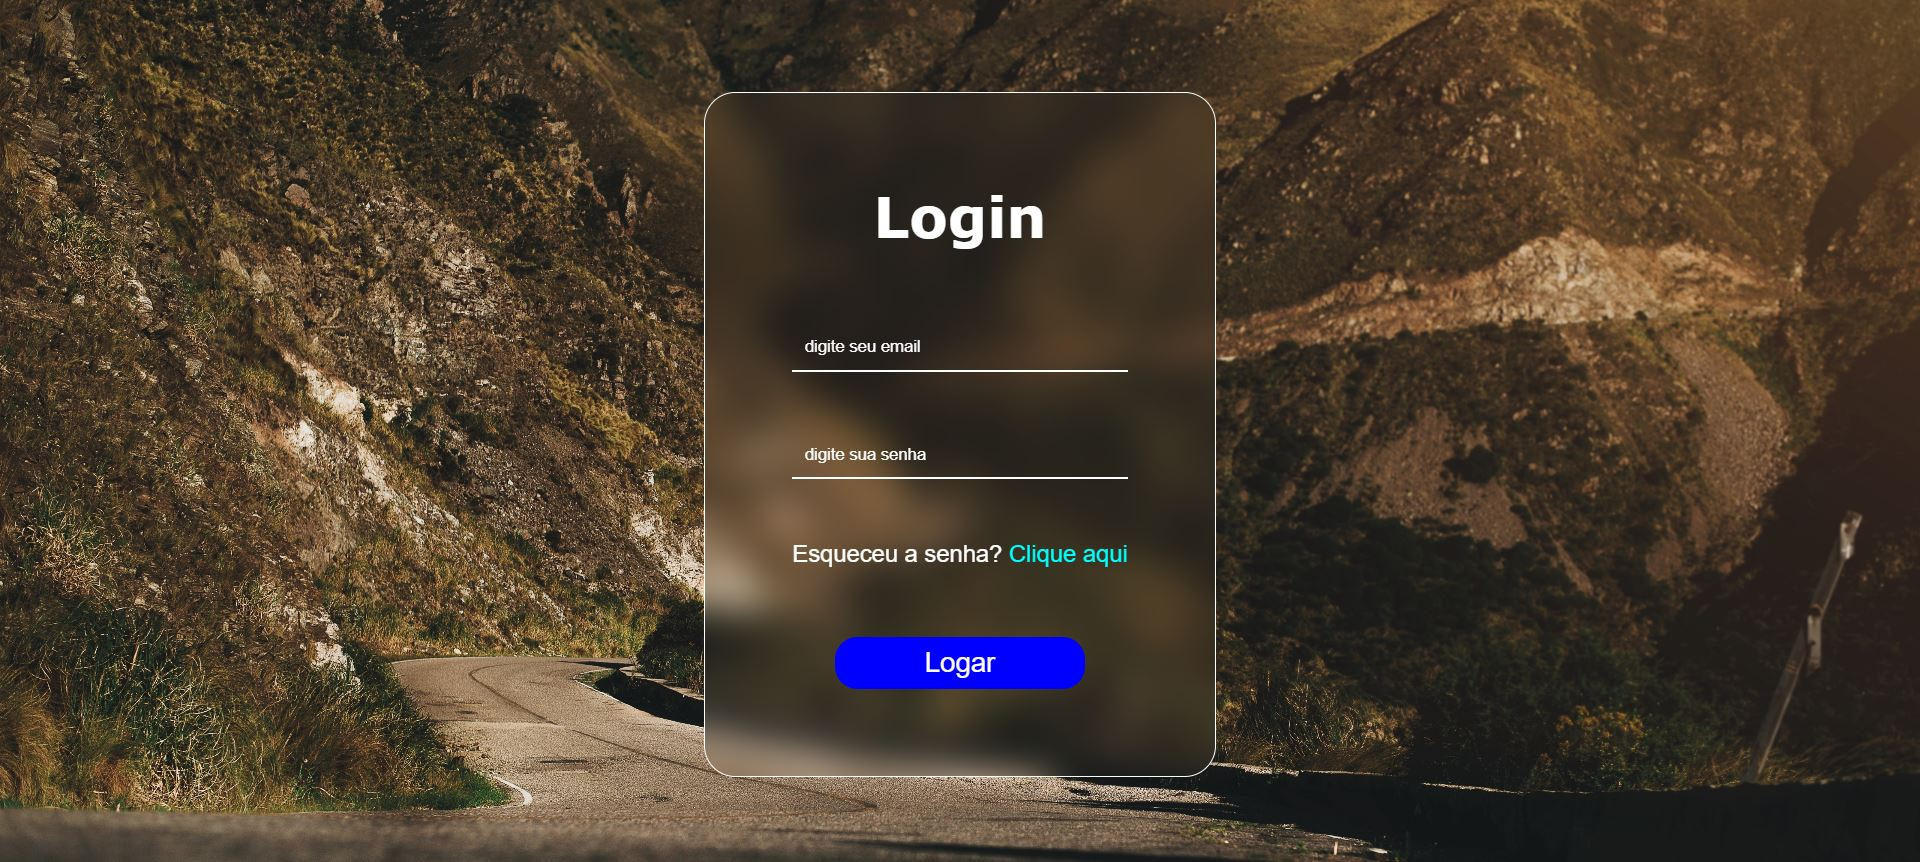
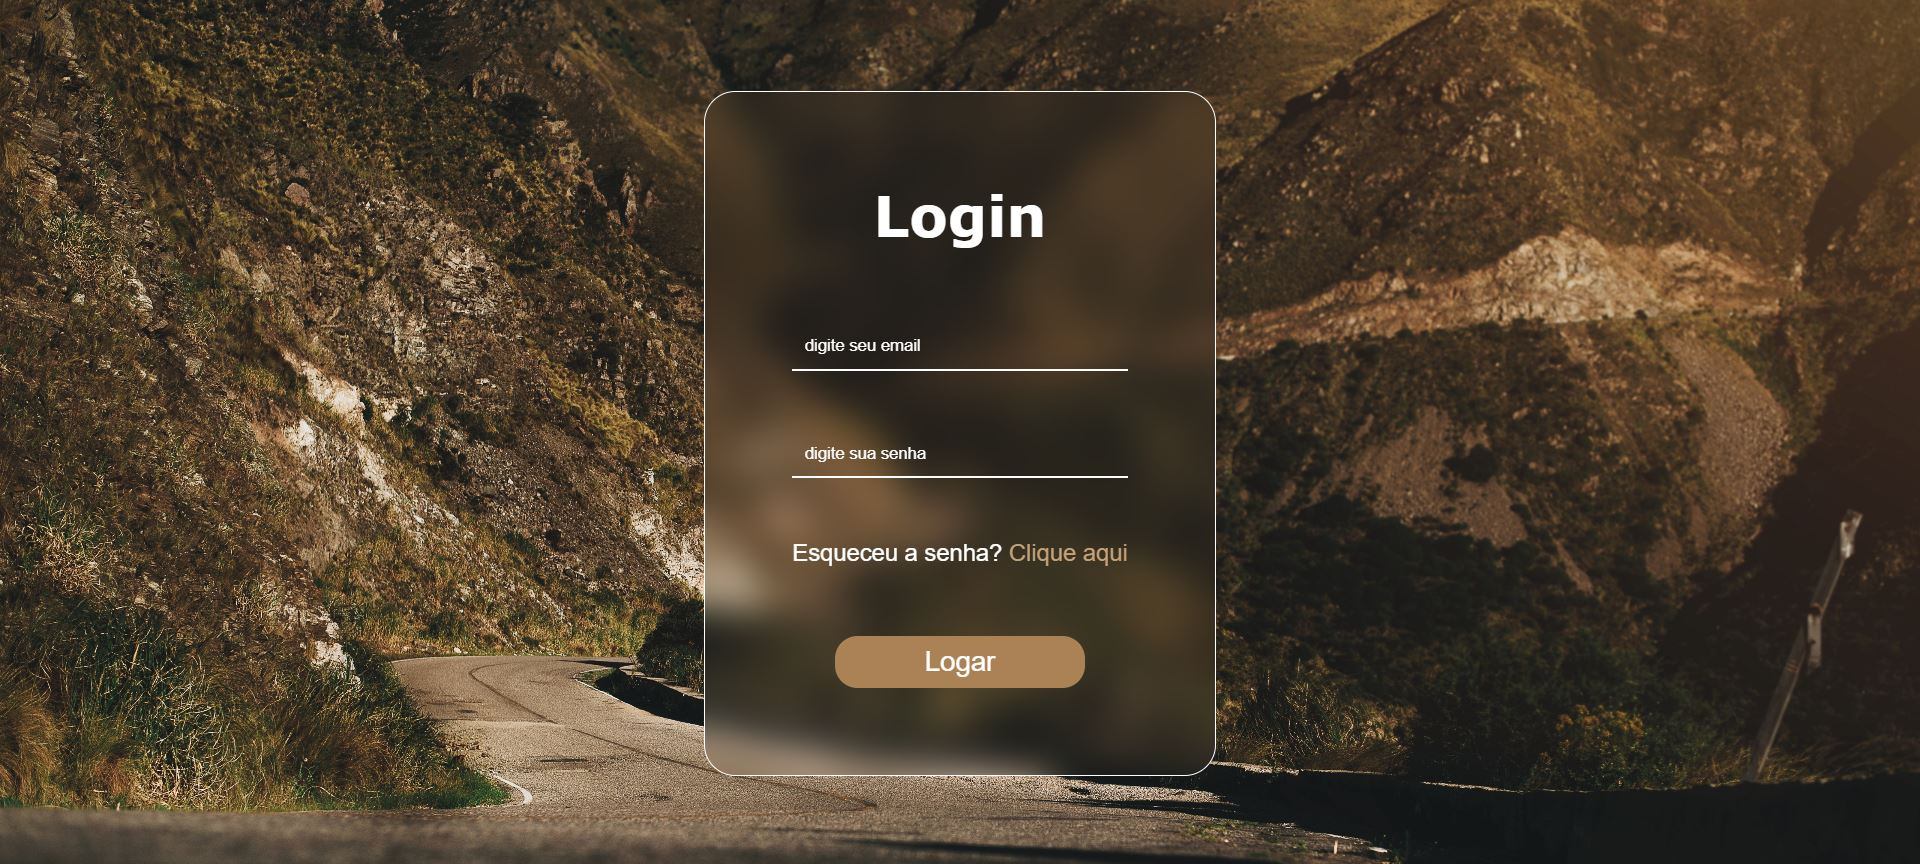
nova alteração

diff --git a/style.css b/style.css
@@ -80,7 +80,7 @@ h1 {
     padding: 8px;
     margin: 0 auto;
     border-radius: 18px;
-    background-color: blue;
+    background-color: #AB8256;
     color: white;
     border: none;
     font-size: 22px;
@@ -92,7 +92,7 @@ h1 {
 
 .botao:hover {
     border: none;
-    background-color: rgb(0, 0, 74);
+    background-color: #6F5136;
     transform: scale(1.1);
 }
 
@@ -108,8 +108,12 @@ a {
     text-decoration: none;
     font-family: Arial, Helvetica, sans-serif;
     font-weight: normal;
-    color: aqua;
+    color: #c6a179;
     transition: 0.2s ease-in-out;
+}
+
+a:hover {
+    transform: scale(1.1);
 }
 
 #modal {
